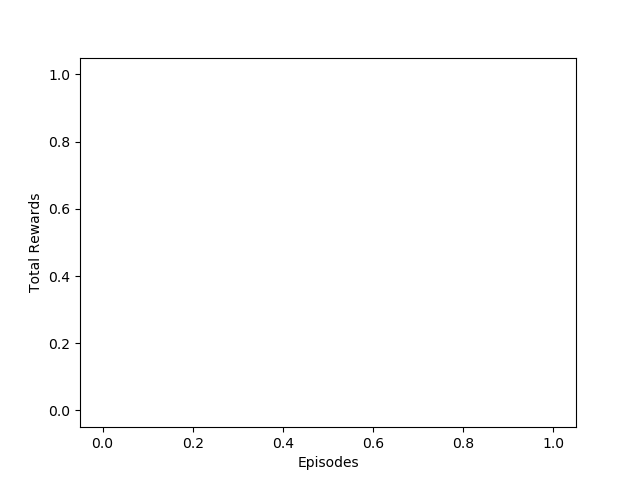
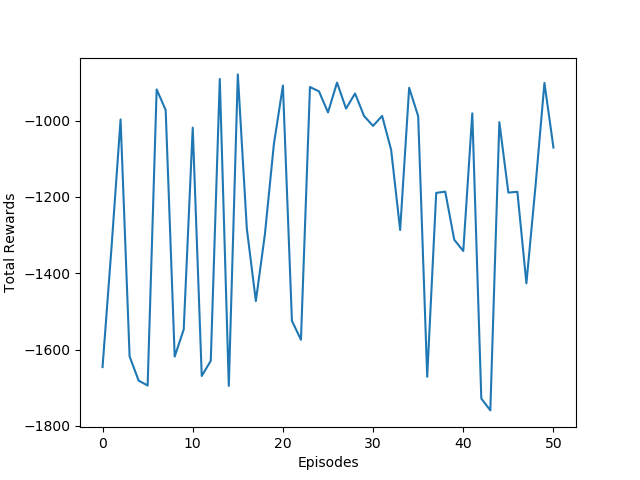
dev

diff --git a/TRPO/Pendulum-v0/main.py b/TRPO/Pendulum-v0/main.py
@@ -16,7 +16,9 @@ from models import PolicyNetwork, ValueNetwork
 
 class TRPOAgent:
 
-    BATCH_SIZE = 12
+    TRAJECTORY_SIZE = 1024
+
+    VF_BATCHSIZE = 64
 
     GAMMA = 0.99
 
@@ -56,7 +58,9 @@ class TRPOAgent:
 
             trajectory = self.compute_advantage(trajectory)
 
-            self.update(trajectory)
+            self.update_policy(trajectory)
+
+            self.update_vf(trajectory)
 
         return self.history
 
@@ -64,15 +68,15 @@ class TRPOAgent:
         """generate trajectory on current policy
         """
 
-        trajectory = {"s": np.zeros((self.BATCH_SIZE, self.OBS_SPACE), dtype=np.float32),
-                      "a": np.zeros((self.BATCH_SIZE, 1), dtype=np.float32),
-                      "r": np.zeros((self.BATCH_SIZE, 1), dtype=np.float32),
-                      "s2": np.zeros((self.BATCH_SIZE, self.OBS_SPACE), dtype=np.float32),
-                      "done": np.zeros((self.BATCH_SIZE, 1), dtype=np.float32)}
+        trajectory = {"s": np.zeros((self.TRAJECTORY_SIZE, self.OBS_SPACE), dtype=np.float32),
+                      "a": np.zeros((self.TRAJECTORY_SIZE, 1), dtype=np.float32),
+                      "r": np.zeros((self.TRAJECTORY_SIZE, 1), dtype=np.float32),
+                      "s2": np.zeros((self.TRAJECTORY_SIZE, self.OBS_SPACE), dtype=np.float32),
+                      "done": np.zeros((self.TRAJECTORY_SIZE, 1), dtype=np.float32)}
 
         state = self.state
 
-        for i in range(self.BATCH_SIZE):
+        for i in range(self.TRAJECTORY_SIZE):
 
             action = self.policy.sample_action(state)
 
@@ -144,12 +148,30 @@ class TRPOAgent:
             lastgae = deltas[i] + self.GAMMA * self.GAE_LAMBDA * is_nonterminals[i] * lastgae
             advantages[i] = lastgae
 
-        trajectory["adv"] = advantages
+        trajectory["adv"] = (advantages - advantages.mean()) / (advantages.std() + 1e-8)
+
+        trajectory["vftarget"] = trajectory["adv"] + trajectory["vpred"]
 
         return trajectory
 
-    def update(self, trajectory):
+    def update_policy(self, trajectory):
         pass
+
+    def update_vf(self, trajectory):
+
+
+        for _ in range(self.TRAJECTORY_SIZE // self.VF_BATCHSIZE):
+
+            indx = np.random.choice(self.TRAJECTORY_SIZE, self.VF_BATCHSIZE, replace=True)
+
+            with tf.GradientTape() as tape:
+                vpred = self.value_network(trajectory["s"][indx])
+                loss = tf.reduce_mean(tf.square(trajectory["vftarget"][indx] - vpred))
+
+            variables = self.value_network.trainable_variables
+            grads = tape.gradient(loss, variables)
+            self.value_network.optimizer.apply_gradients(zip(grads, variables))
+            print(loss)
 
     def save_model(self):
 

diff --git a/TRPO/Pendulum-v0/models.py b/TRPO/Pendulum-v0/models.py
@@ -48,6 +48,8 @@ class PolicyNetwork(tf.keras.Model):
 
 class ValueNetwork(tf.keras.Model):
 
+    LR = 0.001
+
     def __init__(self):
 
         super(ValueNetwork, self).__init__()
@@ -59,6 +61,8 @@ class ValueNetwork(tf.keras.Model):
                                kernel_initializer="he_normal")
 
         self.out = kl.Dense(1, kernel_initializer="he_normal")
+
+        self.optimizer = tf.keras.optimizers.Adam(lr=self.LR)
 
     def call(self, s):
 
